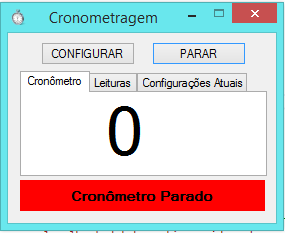
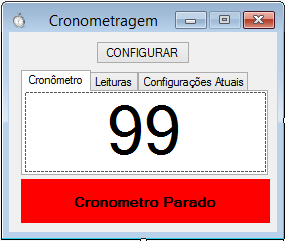
Alterações nas imagens

diff --git a/Codigo/Configurar.cs b/Codigo/Configurar.cs
@@ -11,8 +11,7 @@ namespace Cronometro
         public Setup()
         {
             InitializeComponent();
-            preencherCBLinha();
-            preencherCBPosto();
+			preencherCBPosto();
             preencherCBModelo();
             ini = new IniFile(".\\Config.ini", 1024);
             recuperarInformacoes();
@@ -22,16 +21,10 @@ namespace Cronometro
             tbCanal.Text = ini.readString("Config", "Canal", "");
             tbPorta.Text = ini.readString("Config", "Card", "");
             tbOperador.Text = ini.readString("Config", "Operador", "");
-            cbLinha.Text = ini.readString("Config", "Linha", "");
-            cbPosto.Text = ini.readString("Config", "Posto", "");
+			cbPosto.Text = ini.readString("Config", "Posto", "");
             cbModelo.Text = ini.readString("Config", "Modelo", "");
         }
-        private void preencherCBLinha() {
-            cbLinha.DisplayMember = "linhanome";
-            cbLinha.ValueMember = "linhacod";
-            cbLinha.DataSource = timerDB.preencherCBLinha();
-        }
-        private void preencherCBPosto()
+		private void preencherCBPosto()
         {
             cbPosto.DisplayMember = "postonome";
             cbPosto.ValueMember = "postocod";
@@ -48,9 +41,8 @@ namespace Cronometro
             //pegar informações de TextBox e ComboBox
             int canal = int.Parse(tbCanal.Text);
             int card = int.Parse(tbPorta.Text);
+			String posto = comboPosto.Text.ToString();
             String operador = tbOperador.Text;
-            String linha = comboLinha.Text.ToString();
-            String posto = comboPosto.Text.ToString();
             String modelo = comboModelo.Text.ToString();
 
             if (tbCanal.Text.Equals("") && tbPorta.Text.Equals("")) {
@@ -62,9 +54,8 @@ namespace Cronometro
                 //Se campos obrigatórios preenchidos, salvar e abrir tela com o cronometro
                  ini.writeString("Config", "Canal", canal.ToString());
                  ini.writeString("Config", "Card", card.ToString());
+				 ini.writeString("Config", "Posto", posto);
                  ini.writeString("Config", "Operador", operador);
-                 ini.writeString("Config", "Linha", linha);
-                 ini.writeString("Config", "Posto", posto);
                  ini.writeString("Config", "Modelo", modelo);
 
                 MessageBox.Show("Configurações salvas!!!");

diff --git a/Codigo/Cronometro.cs b/Codigo/Cronometro.cs
@@ -17,7 +17,7 @@ namespace Cronometro.View
         private SeaIOClassic sio = new SeaIOClassic();
         private SeaIOClassic.Error response = 0;
         private int vezParcial = 0, length = 1, canal;
-        private String linha, posto, modelo, operador;
+        private String  posto, modelo, operador;
         private byte[] pBuffer = { 0 };
         private ushort card;
         private List<TimerLista> listaTimer;
@@ -58,17 +58,15 @@ namespace Cronometro.View
             //recuperar informações do arquivo ini
             canal = int.Parse(ini.readString("Config", "Canal", ""));
             card = ushort.Parse(ini.readString("Config", "Card", ""));
+			posto = ini.readString("Config", "Posto", "");
             operador = ini.readString("Config", "Operador", "");
-            linha = ini.readString("Config", "Linha", "");
-            posto = ini.readString("Config", "Posto", "");
             modelo = ini.readString("Config", "Modelo", "");
 
             // preencher labels com ultimas configurações
             lbCanal.Text = "Canal:" + canal;
             lbCard.Text = "Card:" + card;
+			lbPosto.Text = "Posto:" + posto;
             lbOperador.Text = "Operador:" + operador;
-            lbLinha.Text = "Linha:" + linha;
-            lbPosto.Text = "Posto:" + posto;
             lbModelo.Text = "Modelo:" + modelo;
         }
         private void abrirConexao()
@@ -120,7 +118,7 @@ namespace Cronometro.View
                     vezParcial++;
                     try
                     {
-                        Timer1 timer = new Timer1(double.Parse(lblTempo.Text), dates.ToString("yyyy-MM-dd"), dates.ToString("HH:mm:ss"), linha, posto, modelo, operador);
+                        Timer1 timer = new Timer1(double.Parse(lblTempo.Text), dates.ToString("yyyy-MM-dd"), dates.ToString("HH:mm:ss"), posto, modelo, operador);
                         timerDB.salvar(timer);
                     }
                     catch (Exception c)
